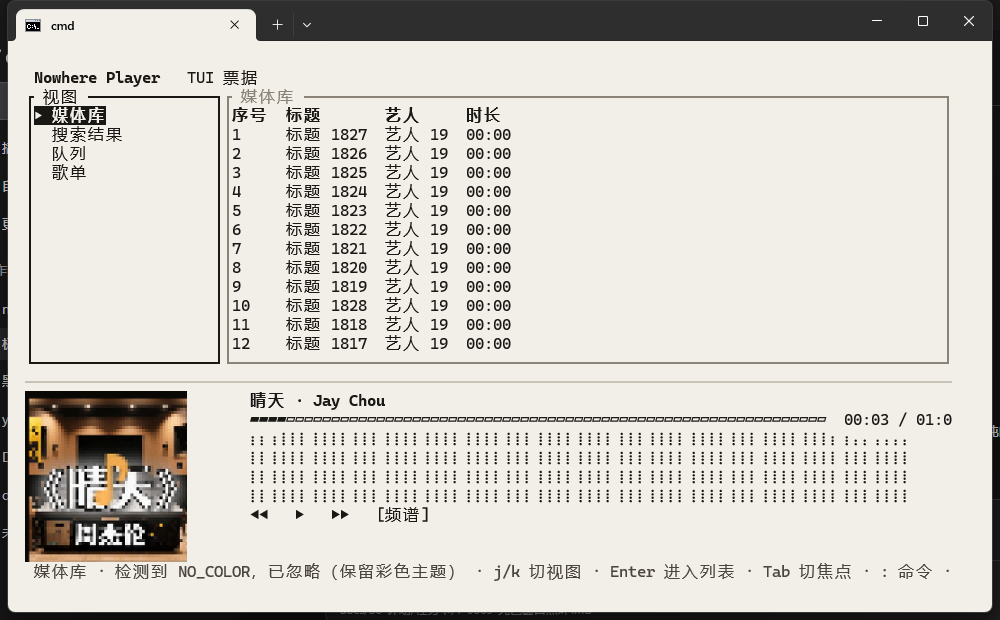
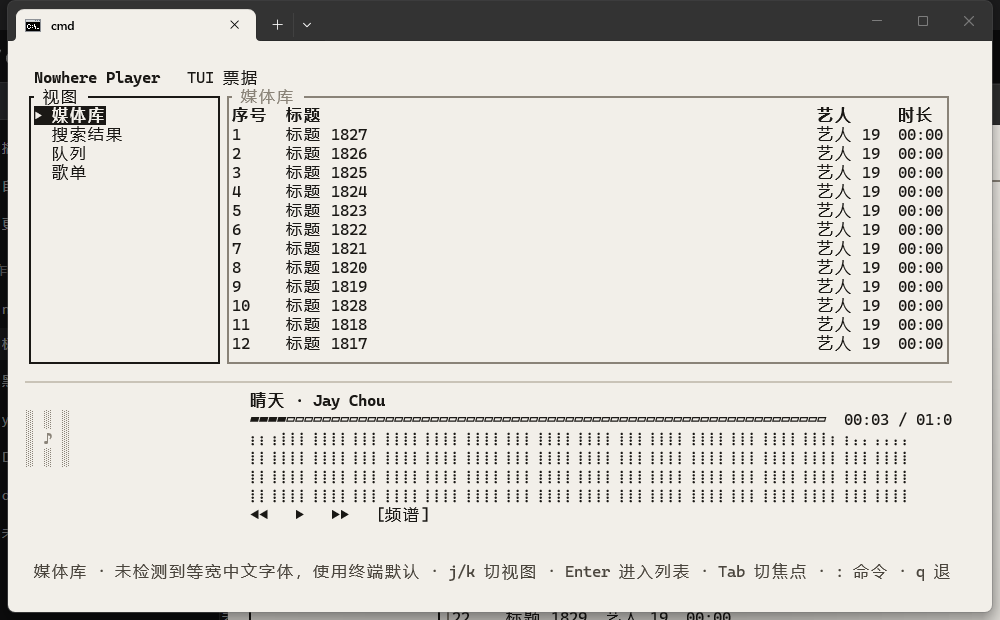
fix(tui): 表格列铺满、队列数据源与 NO_COLOR 去重 (T-0068)

diff --git a/crates/np-tui/src/audio.rs b/crates/np-tui/src/audio.rs
@@ -4,6 +4,7 @@ use np_app::{CmdError, PlayerApi};
 use np_audio::{Player, SampleTapHandle};
 use np_core::{PlaybackMode, PlaybackState, PlaybackStatus, QueueView};
 use std::path::PathBuf;
+use std::sync::Mutex;
 
 pub struct TuiAudio {
     player: Option<Player>,
@@ -13,6 +14,7 @@ pub struct TuiAudio {
     artist: String,
     duration_ms: Option<u64>,
     source_path: Option<PathBuf>,
+    queue: Mutex<QueueView>,
 }
 
 impl TuiAudio {
@@ -41,6 +43,10 @@ impl TuiAudio {
                     artist,
                     duration_ms,
                     source_path: Some(path),
+                    queue: Mutex::new(QueueView {
+                        tracks: Vec::new(),
+                        index: None,
+                    }),
                 }
             }
             Err(_) => Self::empty(),
@@ -56,6 +62,10 @@ impl TuiAudio {
             artist: "Nowhere Player".to_owned(),
             duration_ms: None,
             source_path: None,
+            queue: Mutex::new(QueueView {
+                tracks: Vec::new(),
+                index: None,
+            }),
         }
     }
 
@@ -109,6 +119,13 @@ impl TuiAudio {
         }
     }
 
+    fn queue_view(&self) -> QueueView {
+        self.queue
+            .lock()
+            .unwrap_or_else(|poisoned| poisoned.into_inner())
+            .clone()
+    }
+
     fn state(&self) -> PlaybackState {
         PlaybackState {
             status: if self.playing {
@@ -124,8 +141,8 @@ impl TuiAudio {
             volume: 1.0,
             mode: PlaybackMode::default(),
             error: None,
-            queue_length: None,
-            queue_index: None,
+            queue_length: Some(self.queue_view().tracks.len()),
+            queue_index: self.queue_view().index,
         }
     }
 
@@ -186,18 +203,51 @@ impl PlayerApi for TuiAudio {
         Ok(self.state())
     }
     fn queue_list(&self) -> Result<QueueView, CmdError> {
-        Ok(Self::empty_queue())
+        Ok(self.queue_view())
     }
-    fn queue_add(&self, _paths: Vec<String>) -> Result<QueueView, CmdError> {
-        self.queue_list()
+    fn queue_add(&self, paths: Vec<String>) -> Result<QueueView, CmdError> {
+        let mut queue = self
+            .queue
+            .lock()
+            .unwrap_or_else(|poisoned| poisoned.into_inner());
+        queue.tracks.extend(paths);
+        if queue.index.is_none() && !queue.tracks.is_empty() {
+            queue.index = Some(0);
+        }
+        Ok(queue.clone())
     }
-    fn queue_remove(&self, _index: usize) -> Result<QueueView, CmdError> {
-        self.queue_list()
+    fn queue_remove(&self, index: usize) -> Result<QueueView, CmdError> {
+        let mut queue = self
+            .queue
+            .lock()
+            .unwrap_or_else(|poisoned| poisoned.into_inner());
+        if index < queue.tracks.len() {
+            queue.tracks.remove(index);
+        }
+        queue.index = if queue.tracks.is_empty() {
+            None
+        } else {
+            Some(0)
+        };
+        Ok(queue.clone())
     }
     fn queue_clear(&self) -> Result<QueueView, CmdError> {
-        self.queue_list()
+        let mut queue = self
+            .queue
+            .lock()
+            .unwrap_or_else(|poisoned| poisoned.into_inner());
+        queue.tracks.clear();
+        queue.index = None;
+        Ok(queue.clone())
     }
-    fn queue_jump(&self, _index: usize) -> Result<QueueView, CmdError> {
-        self.queue_list()
+    fn queue_jump(&self, index: usize) -> Result<QueueView, CmdError> {
+        let mut queue = self
+            .queue
+            .lock()
+            .unwrap_or_else(|poisoned| poisoned.into_inner());
+        if index < queue.tracks.len() {
+            queue.index = Some(index);
+        }
+        Ok(queue.clone())
     }
 }

diff --git a/crates/np-tui/src/main.rs b/crates/np-tui/src/main.rs
@@ -553,6 +553,13 @@ impl App {
                 self.upsert_block(*running);
             }
         }
+        if let Ok(Some(parsed)) = np_core::command::parse(&input) {
+            if parsed.spec.name == "queue" {
+                self.views[2] = capture_table(player, &**library, "queue list", "队列");
+            } else if parsed.spec.name == "playlist" {
+                self.views[3] = capture_table(player, &**library, "playlist list", "歌单");
+            }
+        }
         if let Ok(Some(parsed)) = np_core::command::parse(&input)
             && parsed.spec.name == "theme"
             && parsed.subcommand.map(|sub| sub.name) == Some("set")
@@ -680,9 +687,6 @@ fn main() -> Result<(), Box<dyn std::error::Error>> {
     let mut player = TuiAudio::from_env();
     let mut app = App::new();
     app.no_color_ignored = no_color;
-    if no_color {
-        app.status = "检测到 NO_COLOR，已忽略（保留彩色主题）".to_owned();
-    }
     if fallback {
         app.status = "未找到 wt，已用 conhost，封面降级为字符".to_owned();
     } else if let Some(warning) = launcher::font_warning() {
@@ -1167,7 +1171,18 @@ fn draw_list(frame: &mut ratatui::Frame, area: Rect, app: &App) {
         );
         return;
     }
-    let widths = table_widths(&view.columns, &view.rows);
+    let mut widths = table_widths(&view.columns, &view.rows);
+    let used: usize = widths.iter().sum::<usize>() + 2 * widths.len().saturating_sub(1);
+    if used < inner.width as usize {
+        let flex = view
+            .columns
+            .iter()
+            .position(|column| column == "标题")
+            .unwrap_or(1.min(widths.len().saturating_sub(1)));
+        if flex < widths.len() {
+            widths[flex] += inner.width as usize - used;
+        }
+    }
     let mut lines = Vec::new();
     lines.push(Line::styled(
         format_row(&view.columns, &widths),
